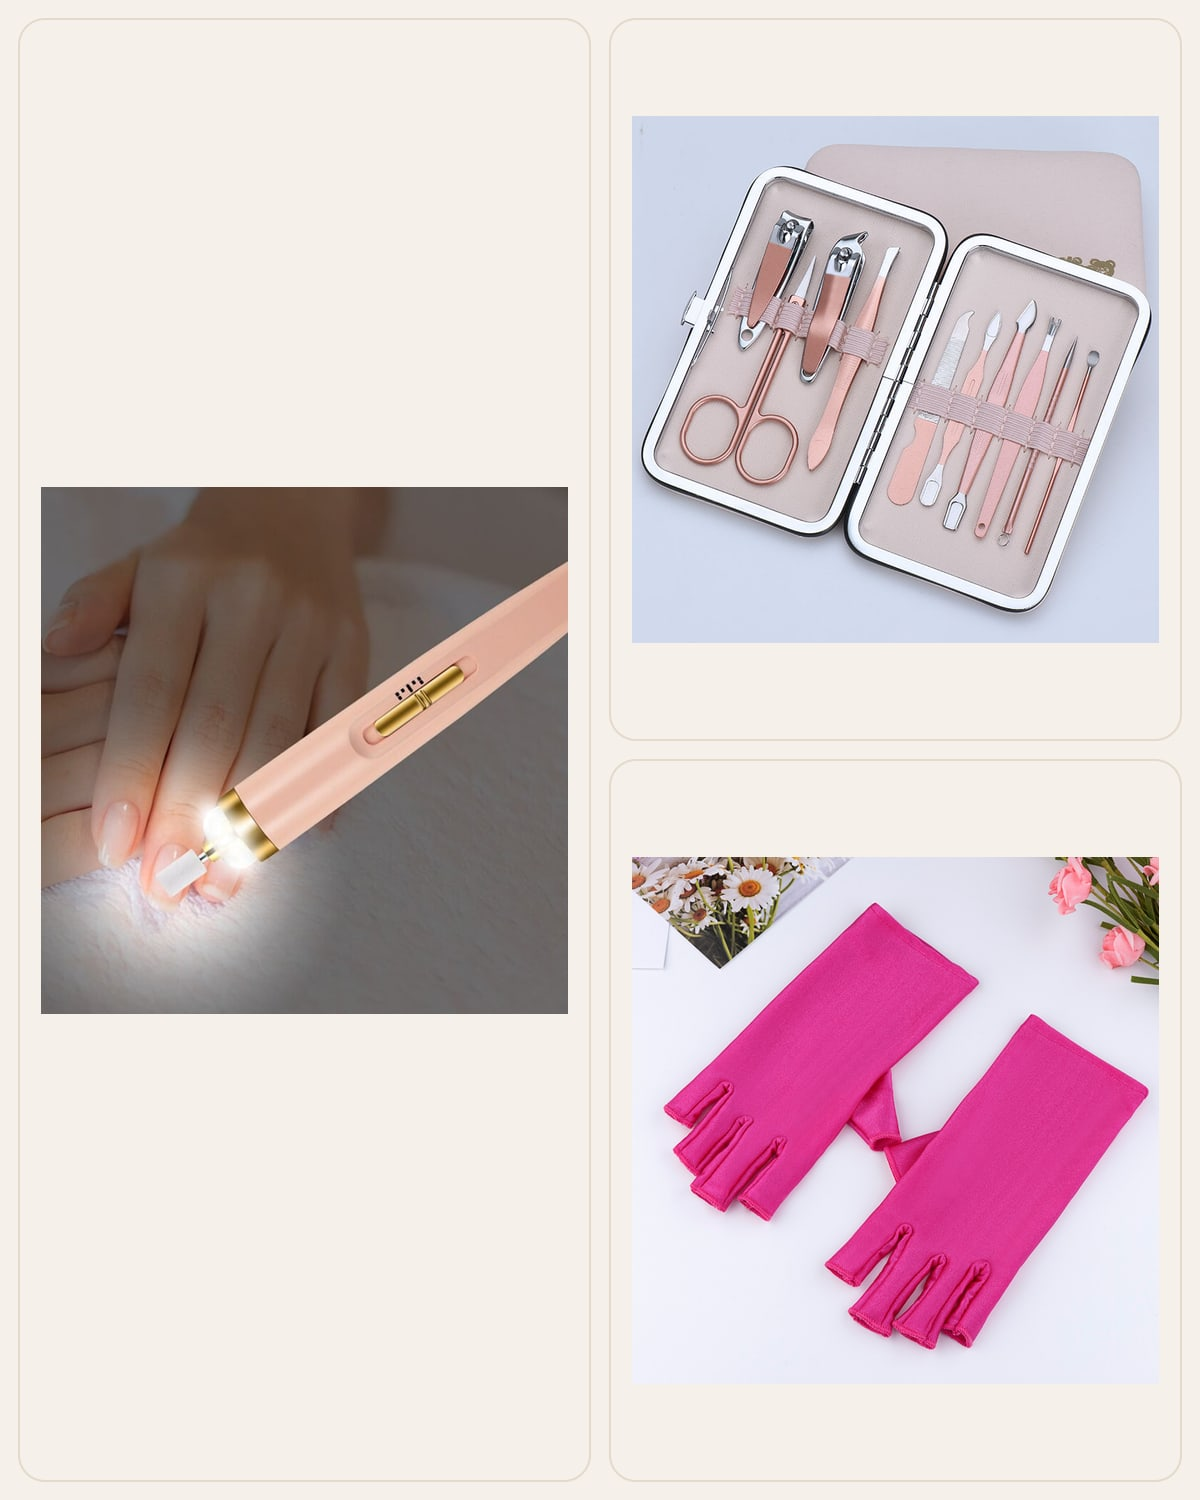
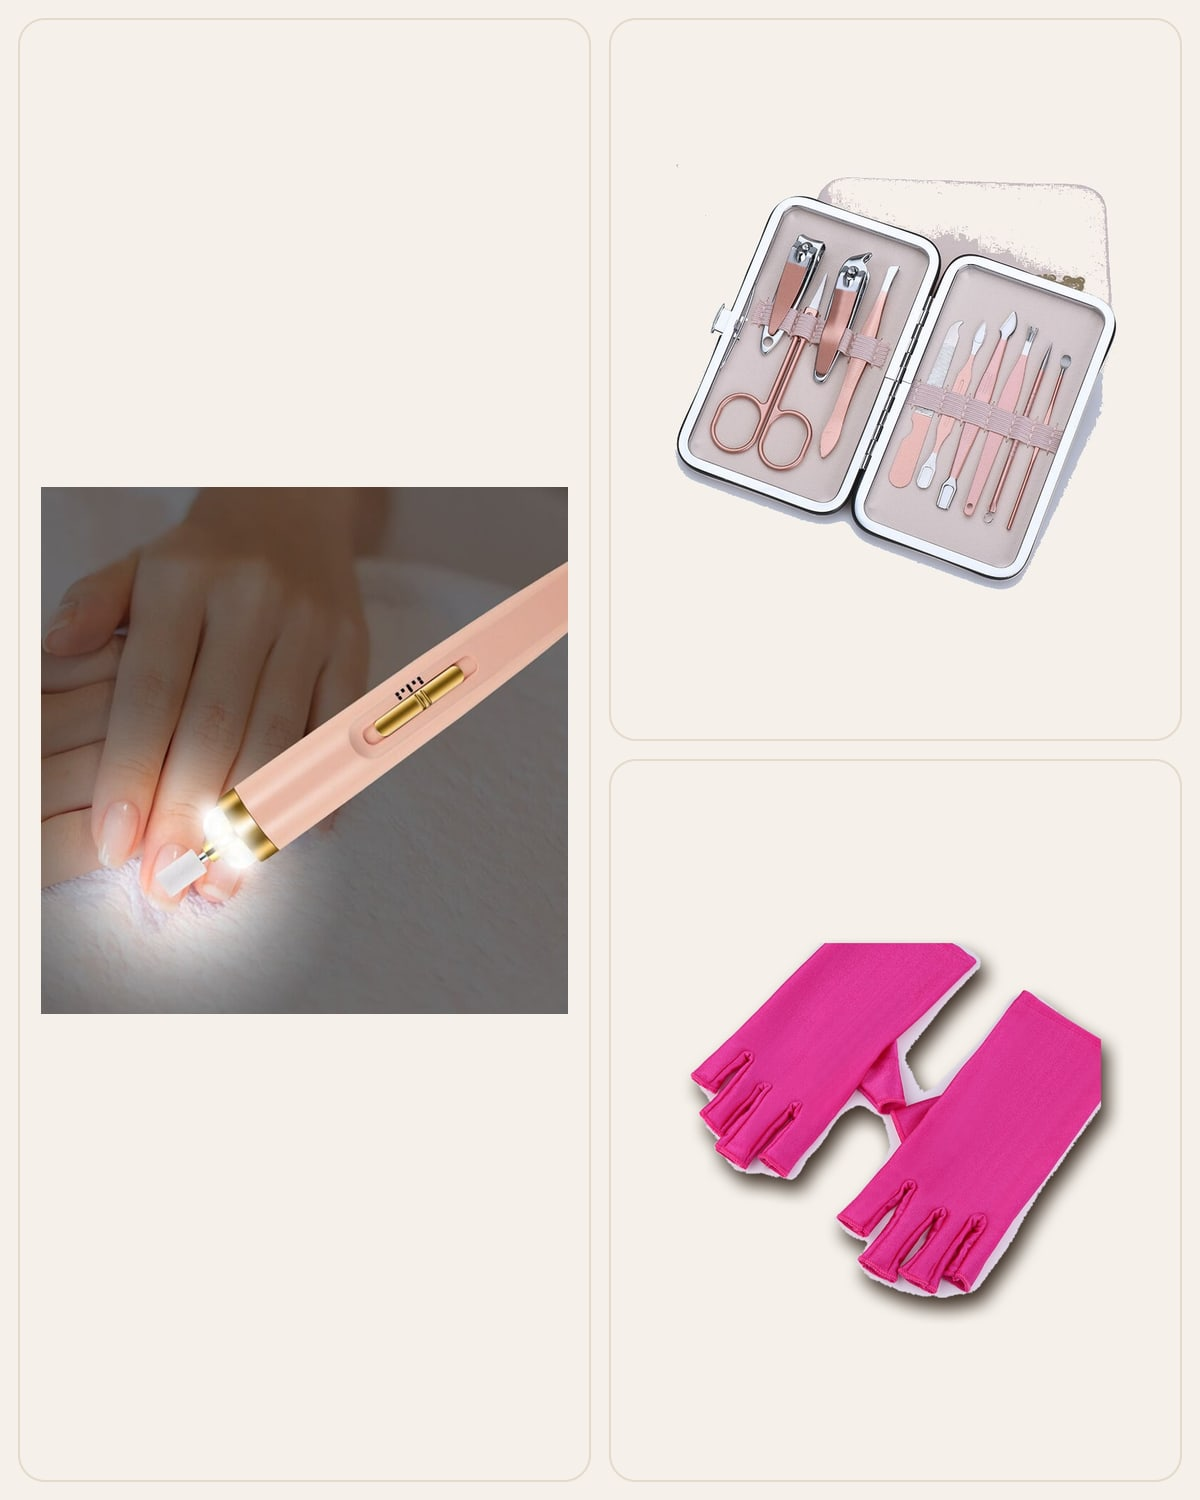
Set mosaics rebuilt with the new product heroes
The mosaic script now falls back to a product page's og:image for products
left out of the Google feed.

Changed region(s): [[0.5242, 0.0613, 0.9867, 0.4293], [0.5242, 0.552, 0.9558, 0.92], [0.8325, 0.552, 0.9867, 0.6747]]

diff --git a/prisma/seed.ts b/prisma/seed.ts
@@ -2095,7 +2095,7 @@ function setRecipe(slug: string): string {
 const LEGACY_RECIPE_PREFIX = "SET: order each component on CJ";
 
 const SET_HERO_BASE = "https://cmacbeauty.ca/sets";
-const SET_HERO_VERSION = 2;
+const SET_HERO_VERSION = 3;
 const isDerivedCloudinary = (u: string) => u.startsWith("https://res.cloudinary.com/") && u.includes("/cmac/products/");
 /** True when a set's images were all generated by this seed (CJ photos, component Cloudinary photos, set mosaics). */
 function onlyDerivedSetPhotos(images: unknown): boolean {
